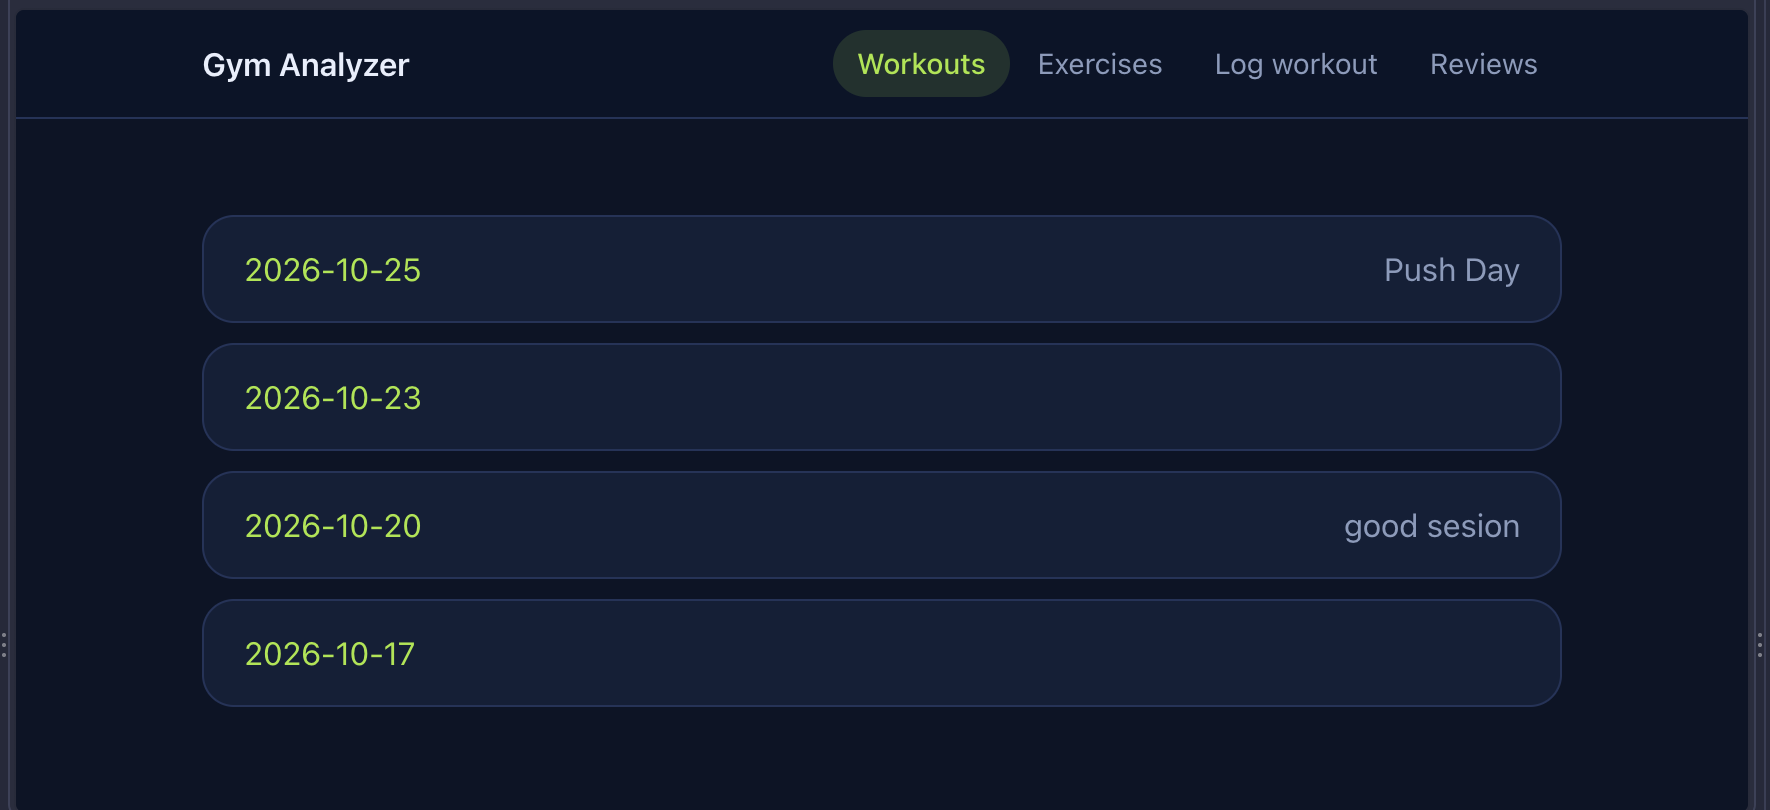
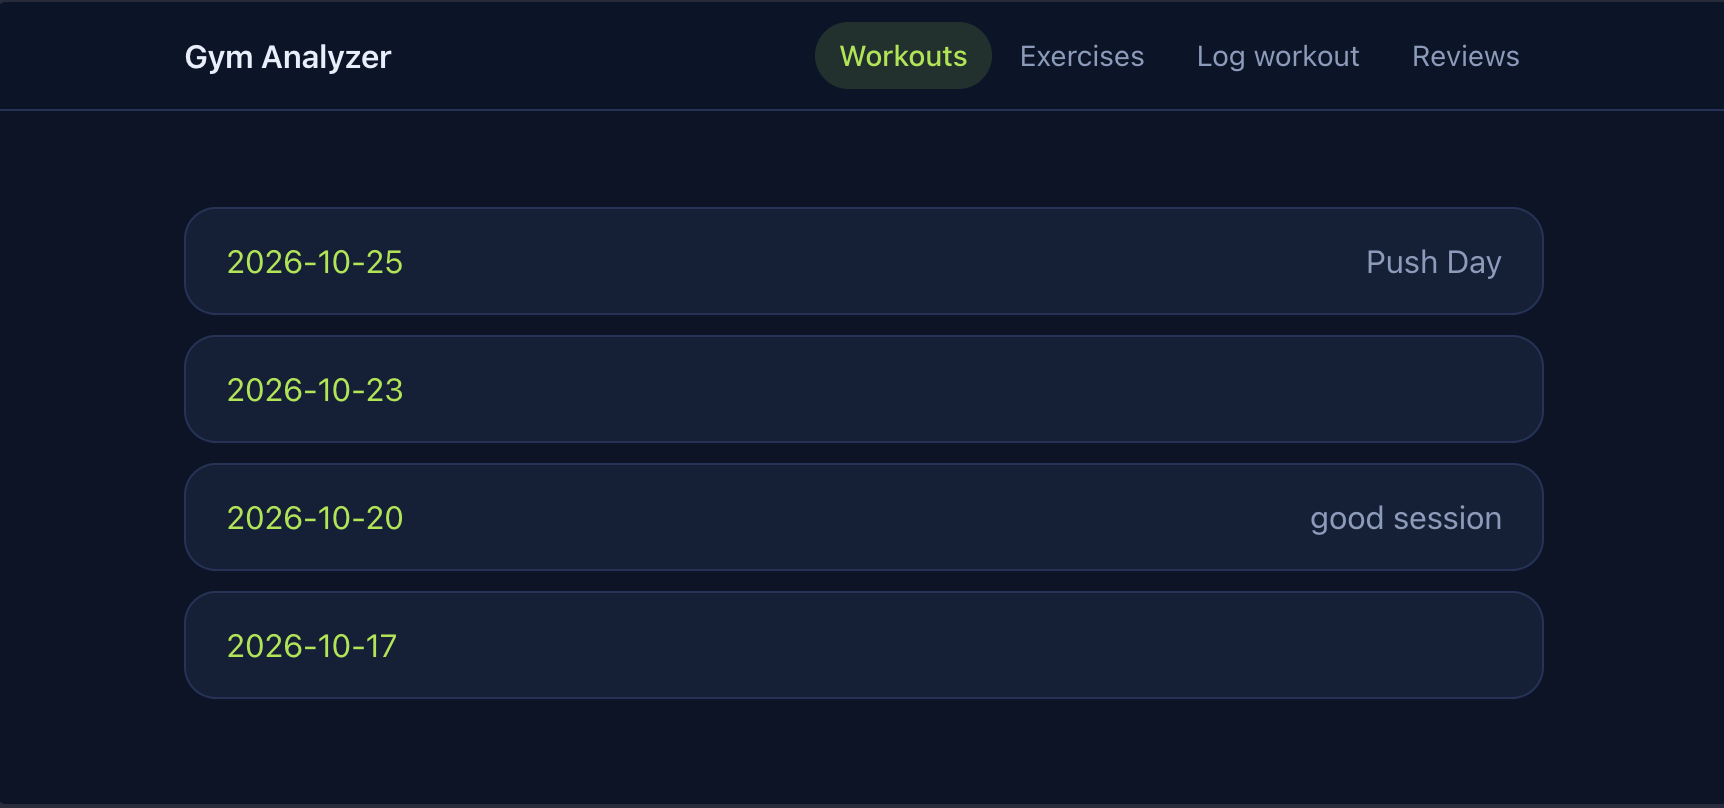
Add screenshots and repo URL

diff --git a/README.md b/README.md
@@ -22,7 +22,7 @@ A web app where I log my workouts and get a weekly AI review of my sessions.
 ## Setup
 
 ```bash
-git clone <gym-analyzer> gym-analyzer
+git clone https://github.com/Began-bgn/gym-analyzer.git gym-analyzer
 cd gym-analyzer
 python3.12 -m venv venv
 source venv/bin/activate
